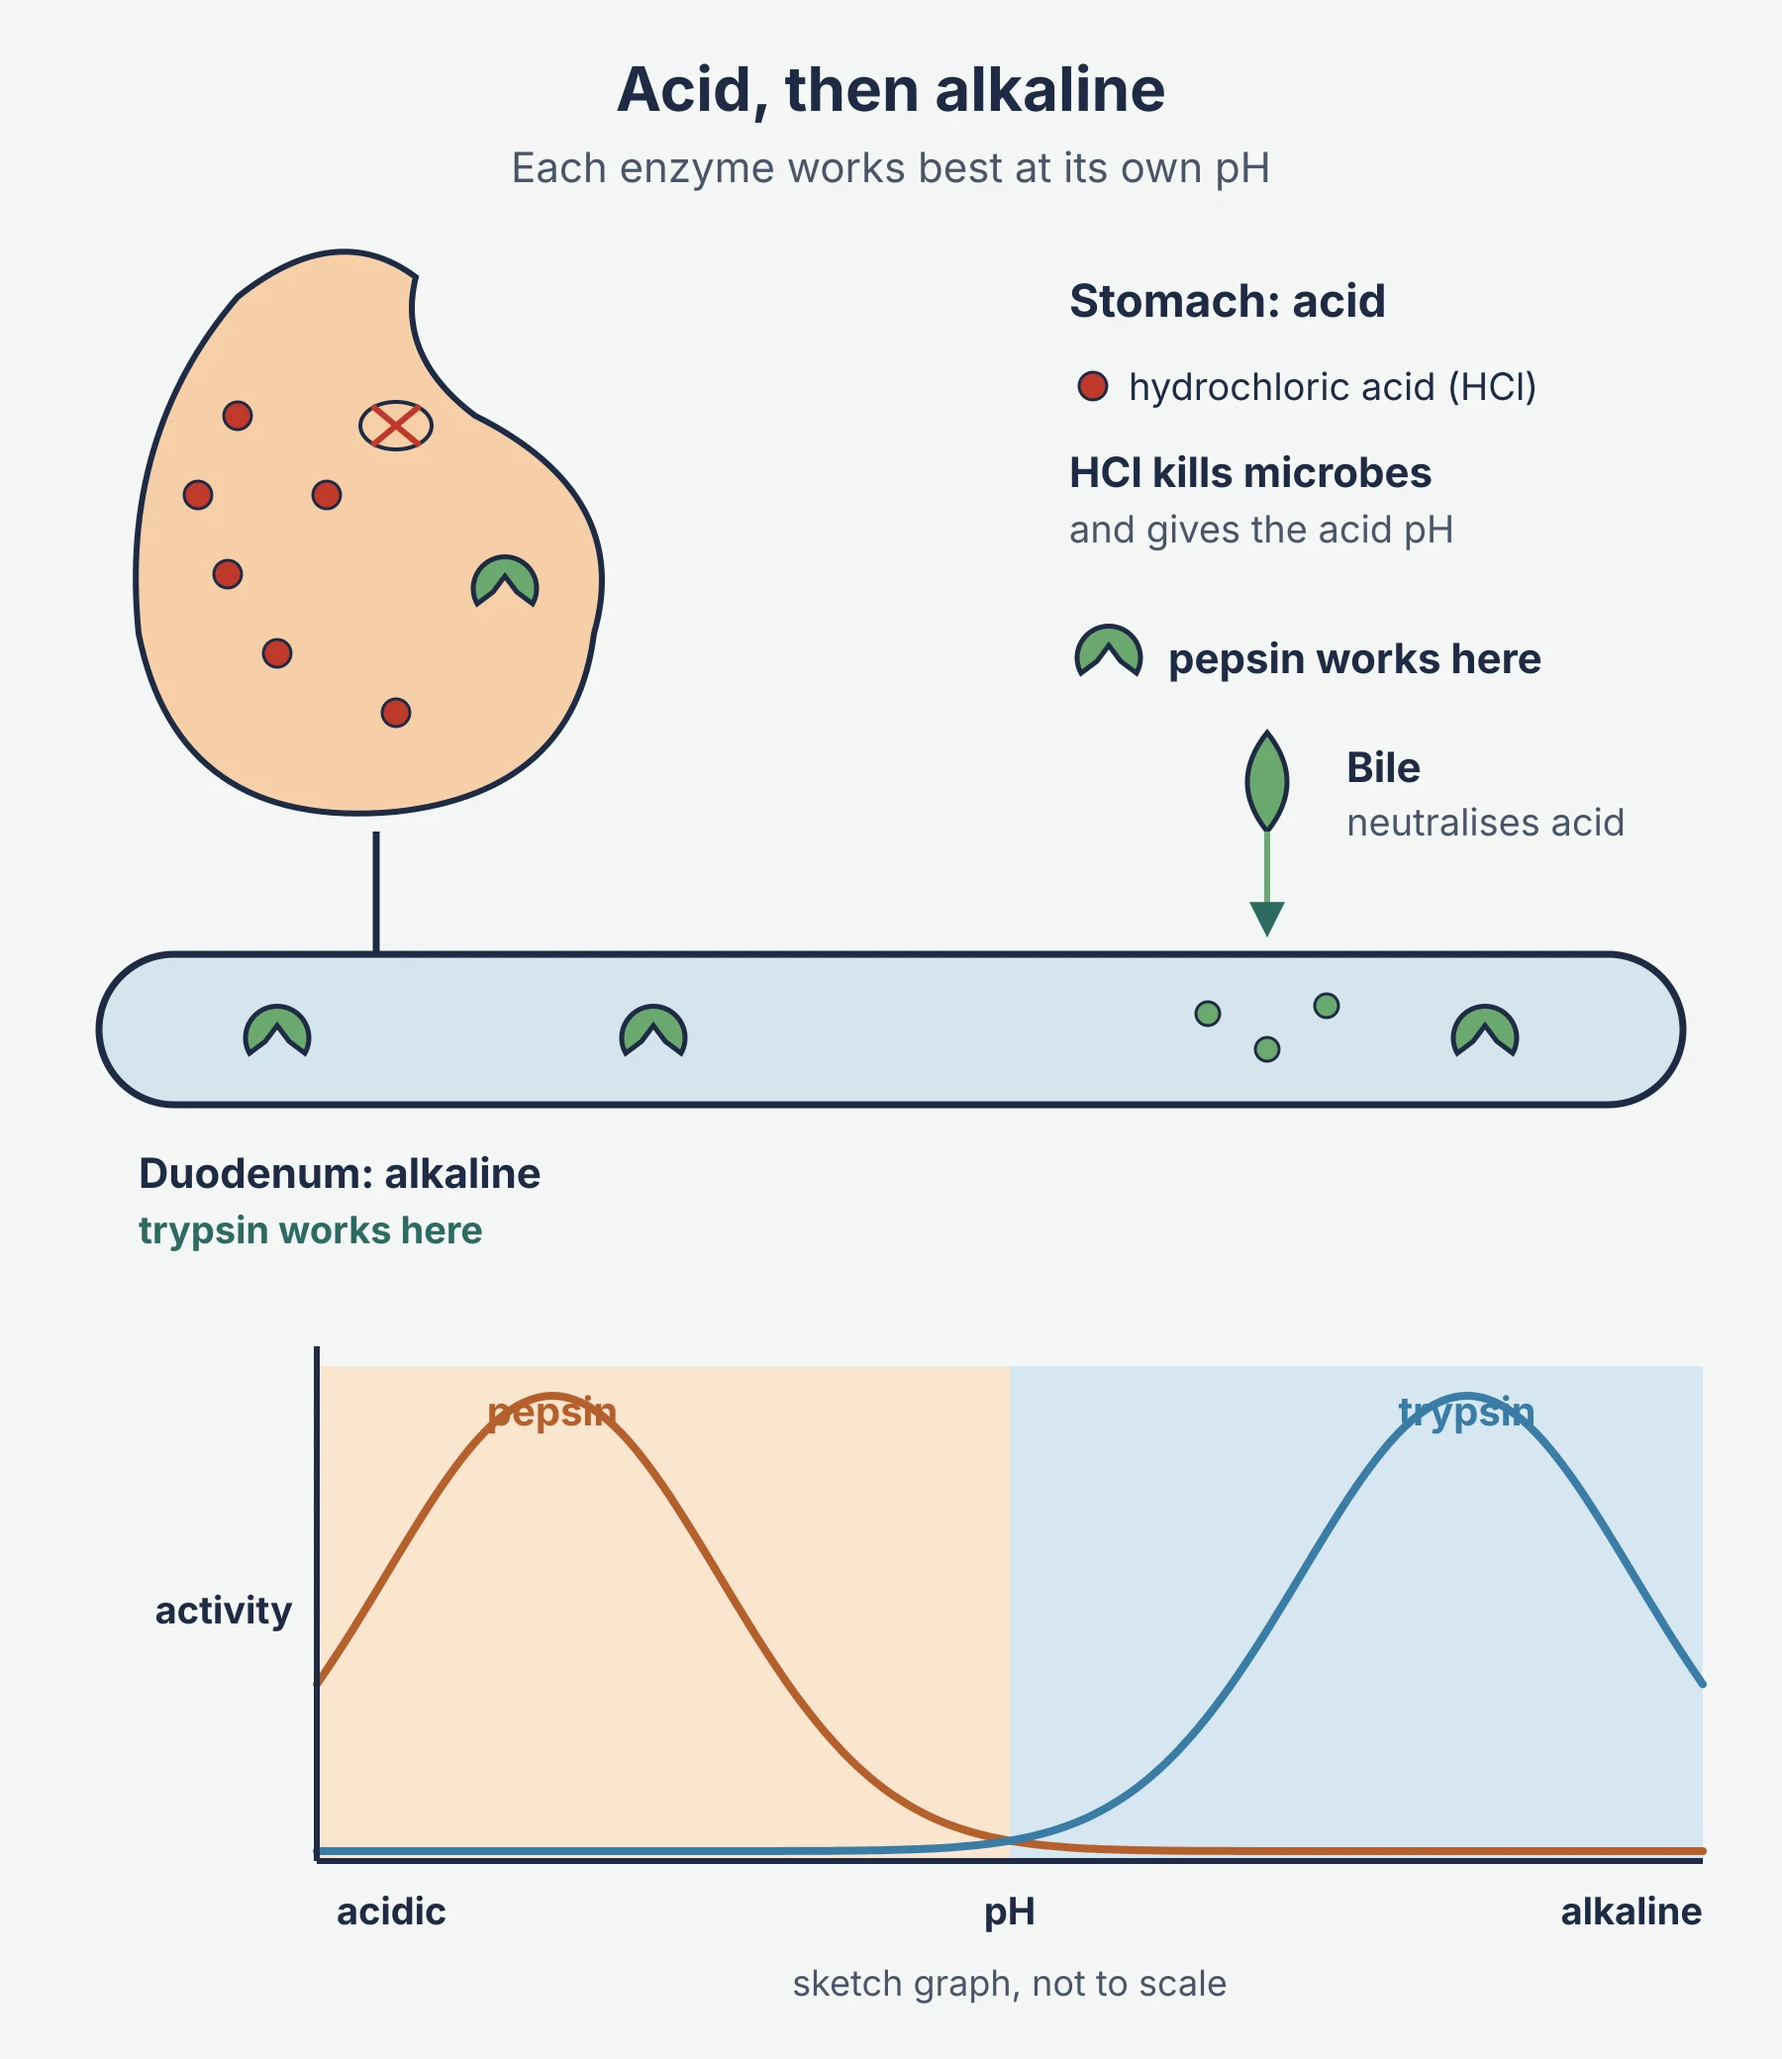
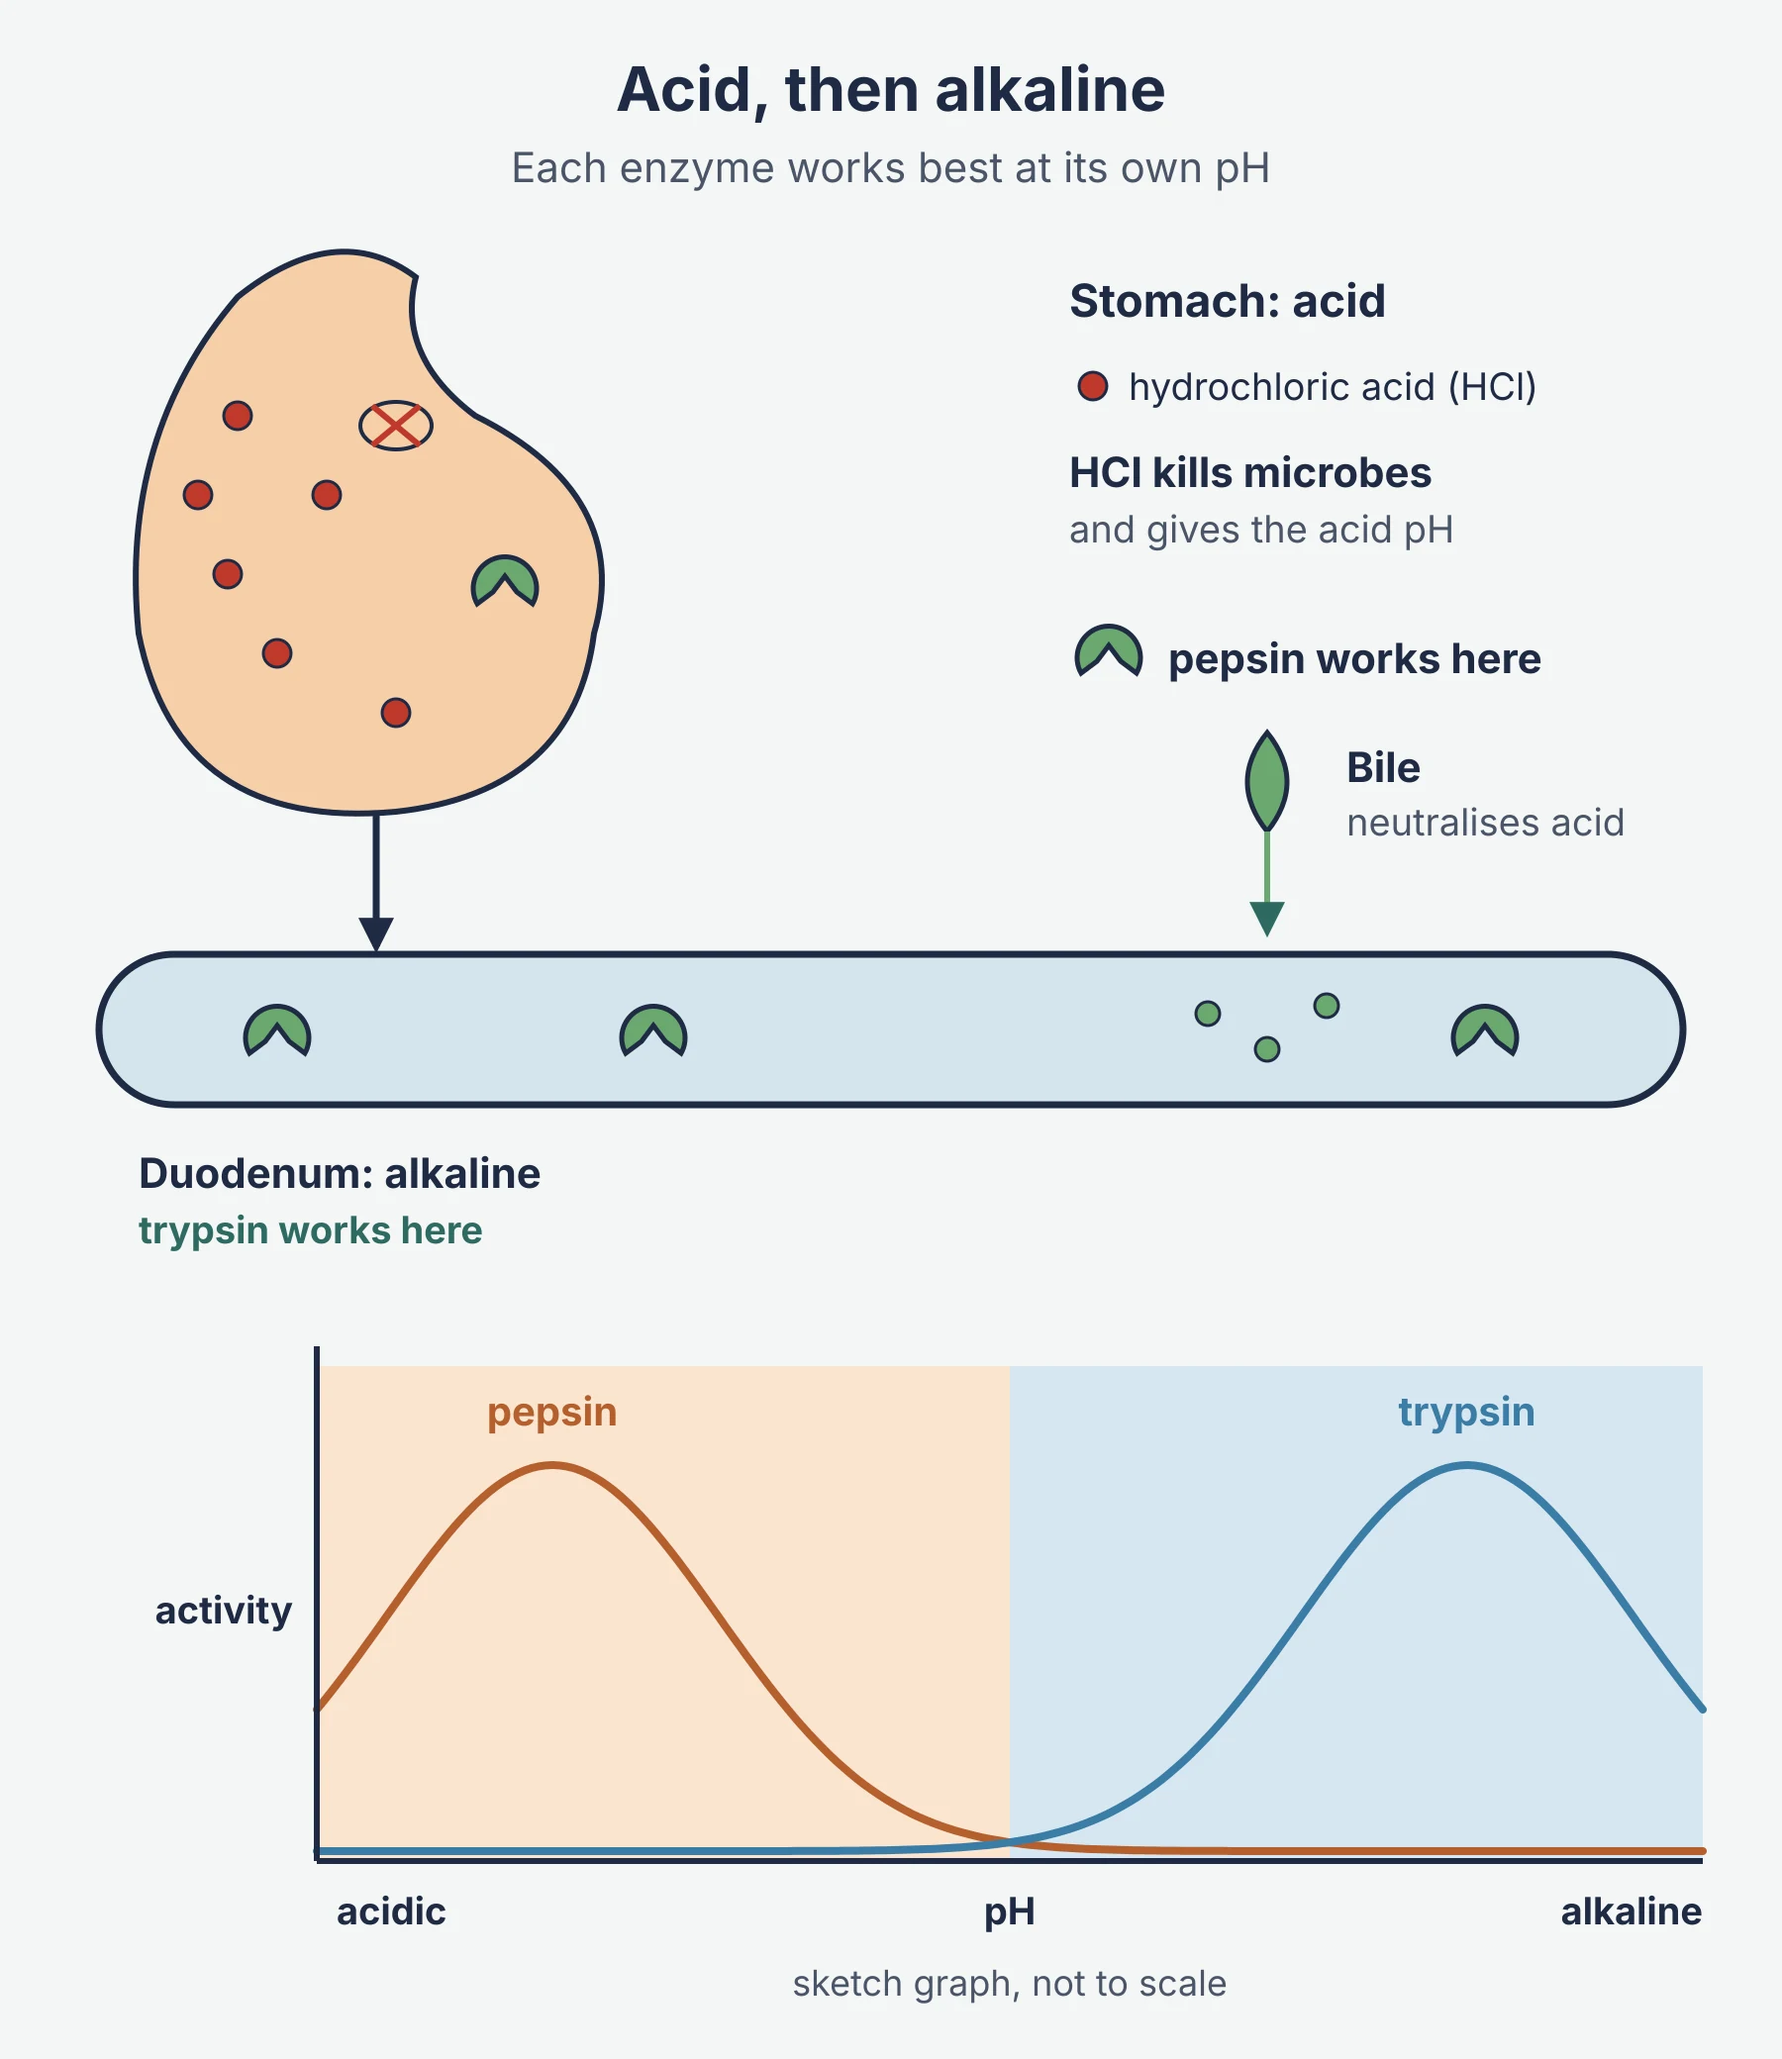
Regeneration: redraw list 5 (64 figures, 14 sets) (local, not pushed)
Claude-Session: https://claude.ai/code/session_01N5L4w3jnueiEEDT7t92Zbd

diff --git a/docs/reports/topic-images/regeneration/sets/biology-transport-in-flowering-plants/figures.html b/docs/reports/topic-images/regeneration/sets/biology-transport-in-flowering-plants/figures.html
@@ -1,0 +1,7 @@
+<!-- Figures for biology-transport-in-flowering-plants. Upload the .webp files to https://img.marlbridge.com/ and paste each block after the heading shown. -->
+
+<!-- place after: ## Key terms -->
+<figure class="topic-figure">
+  <img src="https://img.marlbridge.com/biology-transport-in-flowering-plants--07-root-hair-cell.webp" width="900" height="1000" alt="A root hair cell with a long thin hair among soil particles. Labels: thin cell wall, cell sap more concentrated than the soil water, many mitochondria for active transport, nucleus. Arrows show water entering by osmosis and ions by active transport." loading="lazy">
+  <figcaption>Each feature of a root hair cell helps uptake of water and ions.</figcaption>
+</figure>
